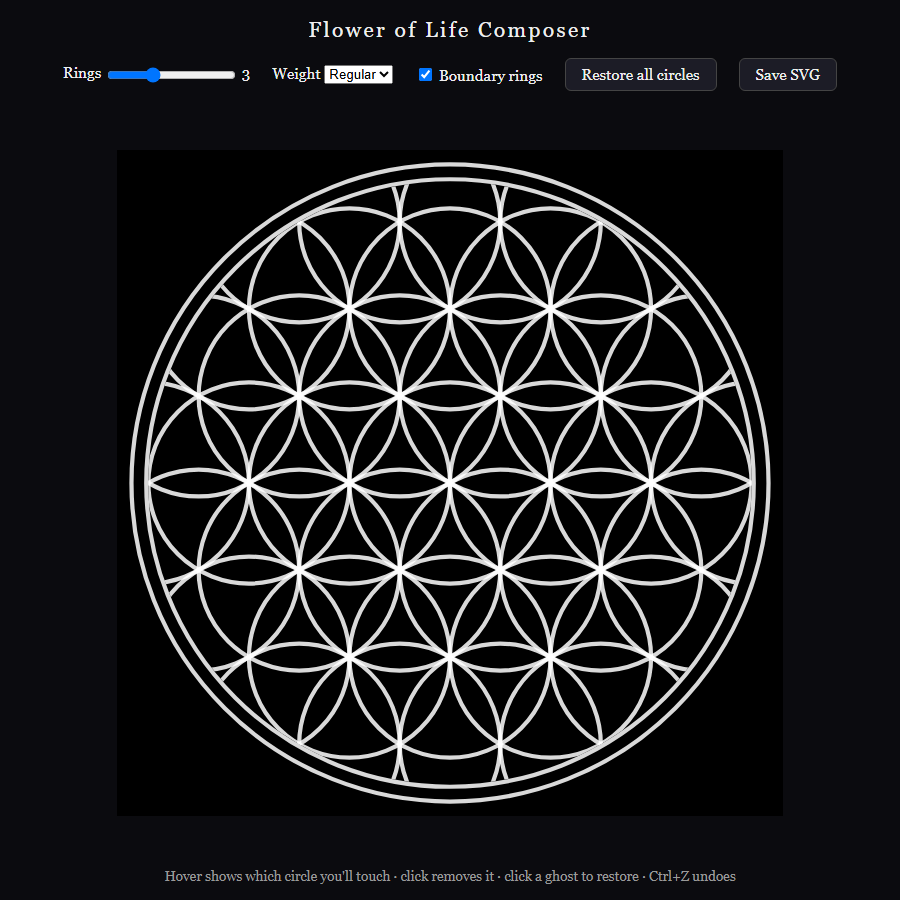
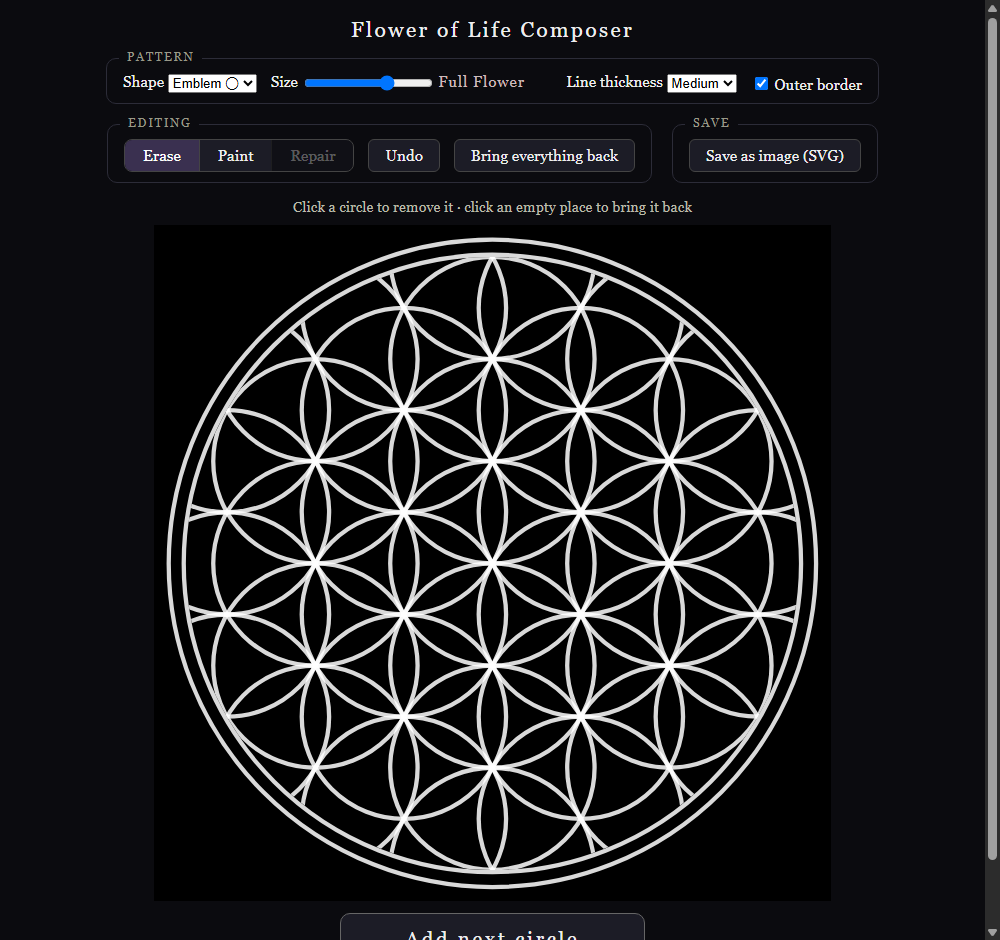
Documentation truth: README and screenshot match the app as it is
Feature list rewritten for the one-circle-at-a-time construction,
Emblem and Tiling shapes, the Erase / Paint / Repair editing modes,
line thickness, still-geometry exports, and the URL options. Fresh
screenshot of the current interface.

Changed region(s): [[0.0622, 0.0, 0.9333, 1.0], [0.9644, 0.0, 1.0, 1.0]]

diff --git a/README.md b/README.md
@@ -8,10 +8,13 @@ An open workshop for living geometry. One HTML file, no dependencies, no build s
 
 ## What it does
 
-- **Grow the pattern** — a slider extends the flower from a single rosette out to seven rings
-- **Compose by touch** — hover shows which circle you'll affect; click removes it, leaving a ghost; click the ghost to restore it; Ctrl+Z undoes
-- **Choose your weight** — light, regular, or bold line work, visually consistent at every scale
-- **Export clean geometry** — download your composition as SVG: white lines on transparent, dark lines on transparent, or white on black ground, with a filename that describes what it is
+- **Grow the classical construction one circle at a time** — One Circle, Vesica Piscis, three through six placed around the center, Seed of Life, Flower of Life, Full Flower, out to seven rings. The big button (or the arrow keys) walks it; each new circle emerges from behind the existing pattern, animated, so the form unfolds out of itself
+- **Two shapes** — the bounded Emblem, or the Tiling: a zoomable square window cut from the endless pattern
+- **Three ways of editing** — Erase (click a circle to remove it), Paint (start from emptiness, click circles into presence), Repair (all absences shown faintly, click to bring them back) — with a sentence on screen always saying what a click does right now, plus Undo and Ctrl+Z
+- **Line thickness** — thin, medium, or bold, visually consistent at every scale
+- **Export clean geometry** — download your composition as SVG: white lines on transparent, dark lines on transparent, or white on black ground, with a filename that describes what it is. Exports are still geometry; the animation lives only in the composing
+
+URL options: `?still` disables animation, `?frame=square` opens in the Tiling shape, `?growth=N` opens at stage N.
 
 Every export is pure vector construction — circles on a hexagonal lattice, clipped by a boundary, enclosed in a double ring. Crisp at any size, from favicon to building facade.
 
